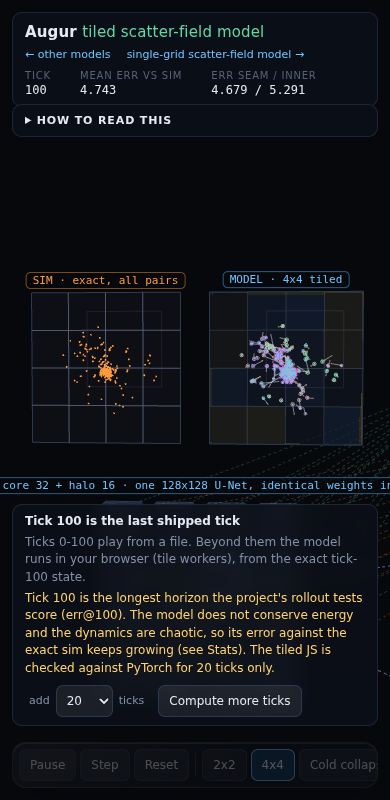
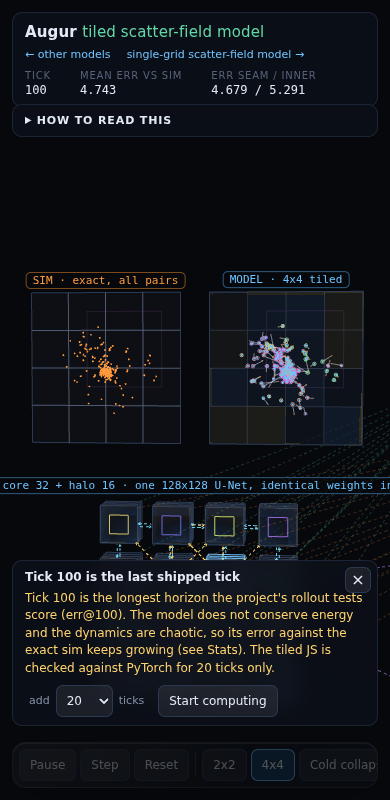
web/scatter-tiled: review fixes (panel close button, U-Net label for shipped ticks, mobile panel); UI test all ok, browser ticks 101-120 diff 0.0

Changed region(s): [[0.0615, 0.625, 0.9538, 0.75], [0.4308, 0.8438, 0.7385, 0.9062], [0.9538, 0.6562, 0.9846, 0.6875]]

diff --git a/web/scatter-tiled/index.html b/web/scatter-tiled/index.html
@@ -54,7 +54,8 @@ dd.s { font-size: 11px; }
 #mstat { font: 11px var(--mono); color: var(--faint); }
 #more { position: fixed; left: 16px; bottom: var(--navh, 150px); width: 340px; padding: 10px 14px; font-size: 12px; color: var(--dim); max-height: 45%; overflow-y: auto; }
 #more[hidden] { display: none; }
-#more b { color: var(--fg); font-size: 12px; }
+#more button.x { position: absolute; right: 6px; top: 6px; width: 26px; height: 26px; padding: 0; font-size: 16px; line-height: 1; }
+#more b { color: var(--fg); font-size: 12px; display: block; padding-right: 30px; }
 #more p { margin: 6px 0 0; line-height: 1.45; }
 #more p.warn { color: var(--gold); }
 #more .mrow { display: flex; flex-wrap: wrap; align-items: center; gap: 6px 10px; margin-top: 8px; }
@@ -92,6 +93,7 @@ input[type=range] { width: 88px; accent-color: var(--accent); }
   #stats { left: 12px; right: 12px; top: 148px; width: auto; max-height: 35%; }
   #more { left: 12px; bottom: var(--navh, 66px); width: calc(100% - 24px); max-height: 38%; padding: 8px 12px; }
   #more p { margin-top: 4px; }
+  #more p.intro { display: none; }
   #mview { left: 12px; right: 12px; top: 104px; width: auto; max-height: 50%; padding: 8px 12px; }
   nav.glass { left: 12px; right: 12px; bottom: 12px; transform: none; width: auto; max-width: none; flex-wrap: nowrap; justify-content: flex-start; overflow-x: auto; gap: 4px; padding: 6px; scrollbar-width: none; }
   nav::-webkit-scrollbar { display: none; }
@@ -143,12 +145,13 @@ input[type=range] { width: 88px; accent-color: var(--accent); }
   <p id="mstat">loading weights</p>
 </details>
 <section id="more" class="glass" aria-label="compute more ticks" hidden>
+  <button id="b-more-x" class="x" aria-label="close" title="close">&times;</button>
   <b id="m-title">Shipped ticks</b>
-  <p>Ticks 0-100 play from a file. Beyond them the model runs in your browser (tile workers), from the exact tick-100 state.</p>
+  <p class="intro">Ticks 0-100 play from a file. Beyond them the model runs in your browser (tile workers), from the exact tick-100 state.</p>
   <p class="warn">Tick 100 is the longest horizon the project's rollout tests score (err@100). The model does not conserve energy and the dynamics are chaotic, so its error against the exact sim keeps growing (see Stats). The tiled JS is checked against PyTorch for 20 ticks only.</p>
   <div class="mrow">
     <label class="sl">add <select id="sel-more" aria-label="ticks to compute"><option value="20">20</option><option value="50">50</option><option value="100">100</option></select> ticks</label>
-    <button id="b-more" class="gold">Compute more ticks</button>
+    <button id="b-more" class="gold">Start computing</button>
     <button id="b-more-stop" hidden>Stop</button>
     <progress id="p-more" max="1" value="0" hidden></progress>
     <span id="m-stat"></span>

diff --git a/web/scatter-tiled/js/app.js b/web/scatter-tiled/js/app.js
@@ -73,7 +73,7 @@ function startRun() {
   state.runEpoch++; state.modelEpoch++;
   frames.clear(); sims.clear(); errAt.clear();
   oldest = 0; newest = -1; state.tick = -1; stepPending = false; state.errs = [];
-  state.cap = Infinity; state.computing = false; state.wantSent = undefined; state.simLimit = 0;
+  state.cap = Infinity; state.computing = false; state.wantSent = undefined; state.simLimit = 0; state.moreShut = false; state.moreOpen = false;
   if (producer) producer.postMessage({ cmd: "stop" });
   if (simWorker) simWorker.postMessage({ cmd: "stop" });
   simState = 0;
@@ -165,7 +165,7 @@ function stopMore() {
 
 function moreUi() {
   const box = $("more"), pre = state.fromPre, k = state.tick, last = state.pre ? preLast() : 0;
-  const open = pre && (state.moreOpen || state.computing || k >= last || newest > last);
+  const open = pre && (state.moreOpen || state.computing || (!state.moreShut && (k >= last || newest > last)));
   box.hidden = !open;
   box.style.setProperty("--navh", document.querySelector("nav").offsetHeight + 28 + "px");
   $("b-morenav").hidden = !pre;
@@ -407,7 +407,8 @@ $("b-stats").addEventListener("click", () => { $("stats").hidden = !$("stats").h
 
 $("b-more").addEventListener("click", () => computeMore());
 $("b-more-stop").addEventListener("click", () => stopMore());
-$("b-morenav").addEventListener("click", () => { state.moreOpen = true; moreUi(); $("b-more").focus(); });
+$("b-morenav").addEventListener("click", () => { state.moreOpen = true; state.moreShut = false; moreUi(); $("b-more").focus(); });
+$("b-more-x").addEventListener("click", () => { state.moreOpen = false; state.moreShut = true; moreUi(); });
 
 window.addEventListener("keydown", (e) => {
   if (e.target.tagName === "INPUT" || e.target.tagName === "SELECT") return;

diff --git a/web/scatter-tiled/js/view3d.js b/web/scatter-tiled/js/view3d.js
@@ -521,7 +521,8 @@ export async function createView({ canvas, labelsEl, tip, handlers }) {
     note("ks", "violet: shipped kmlp, repulsive beyond r = 64", V(KBASE[0] + 9, KBASE[1] - 12.2), "k1", 0.9);
     note("farT", "far term: mass outside a tile's box, via the coarse grid (orange arcs)", V((FAR_C0[0] + FAR_C1[0]) / 2, FAR_C0[1] + 11.5), fl.far ? "" : "dim", 0.95);
     const unetTile = fr && fr.unet ? fr.unet.tile : state.inspect, ux = unetTile;
-    note("ut", `U-Net of tile ${Math.floor(ux / nt)},${ux % nt} &middot; same weights in all ${T} tiles (click a tile) &middot; e = encoder, d = decoder`, V(46, 3.6), learned);
+    const noAct = fr && fr.compact && !fr.unet;
+    note("ut", `U-Net of tile ${Math.floor(ux / nt)},${ux % nt} &middot; ` + (noAct ? "activations not stored in shipped ticks" : `same weights in all ${T} tiles (click a tile) &middot; e = encoder, d = decoder`), V(46, 3.6), learned);
     for (const [id, b] of [["h0", U.h0], ...U.enc.map((b, l) => ["enc" + l, b]), ...U.dec.map((b, l) => ["dec" + l, b])]) {
       if (!b) continue;
       note("b" + id, id === "h0" ? "in conv &middot; 128&sup2;" : (id.startsWith("enc") ? "e" : "d") + id.slice(3) + " &middot; " + b.H + "&sup2;", V(b.group.position.x, -b.group.position.z + b.sizeY / 2 + 0.4, b.group.position.y), "", narrow ? 0 : 0.9);

diff --git a/web/scatter-tiled/tests/ui_precomputed.py b/web/scatter-tiled/tests/ui_precomputed.py
@@ -51,6 +51,11 @@ with sync_playwright() as p:
     check(d < 1e-5, f"displayed tick 100 equals the reference run (max diff {d:.1e})")
     check(not any("rror" in l for l in logs), f"no console errors {logs[:3]}")
 
+    pg.click("#b-more-x")
+    check(pg.evaluate("document.getElementById('more').hidden"), "panel can be closed")
+    pg.click("#b-morenav")
+    check(not pg.evaluate("document.getElementById('more').hidden"), "nav button reopens the panel")
+
     # compute more
     pg.select_option("#sel-more", MORE)
     t1 = time.time()
